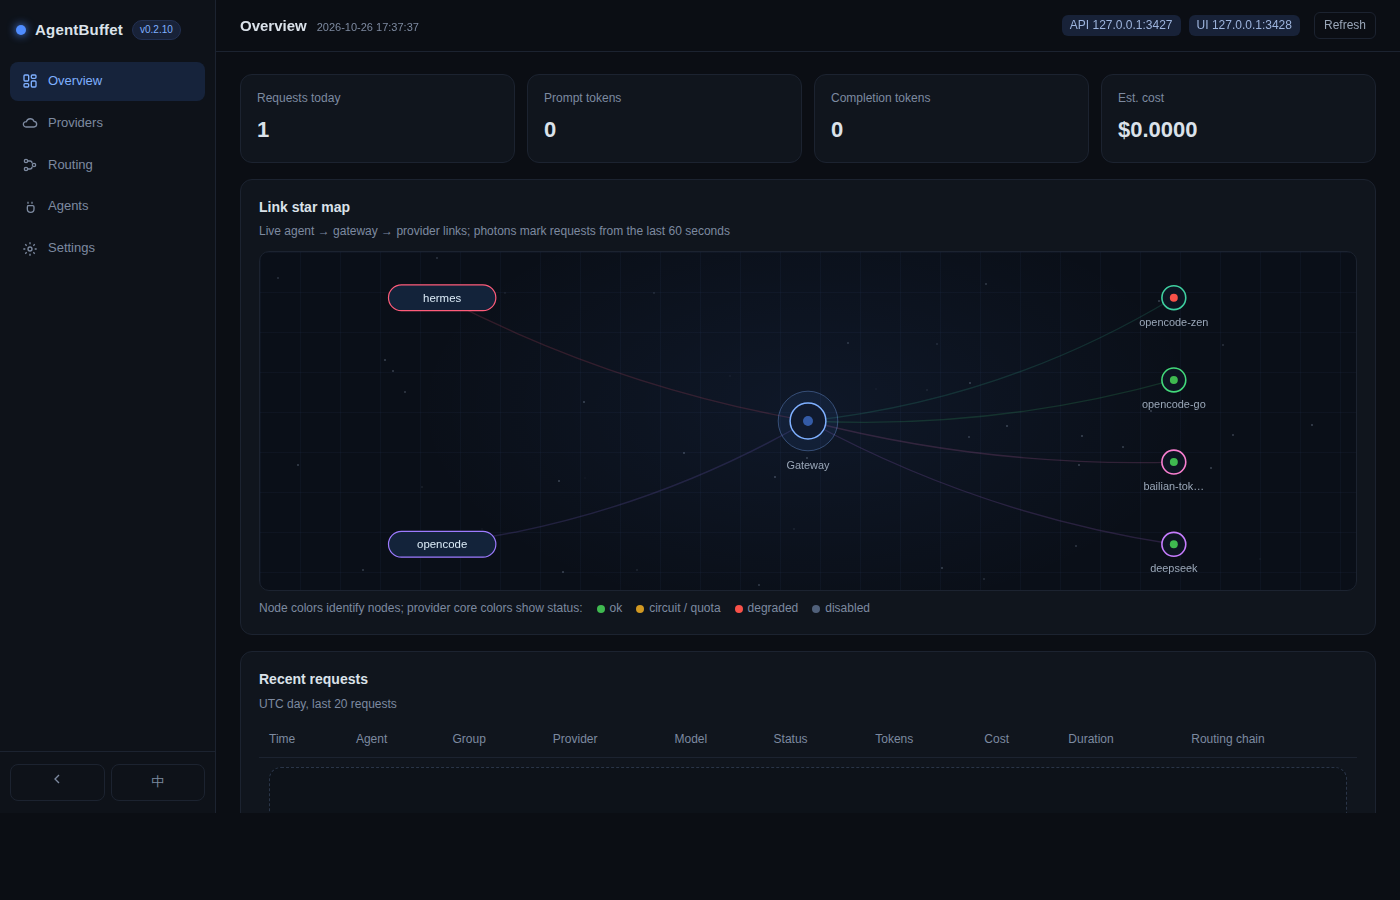
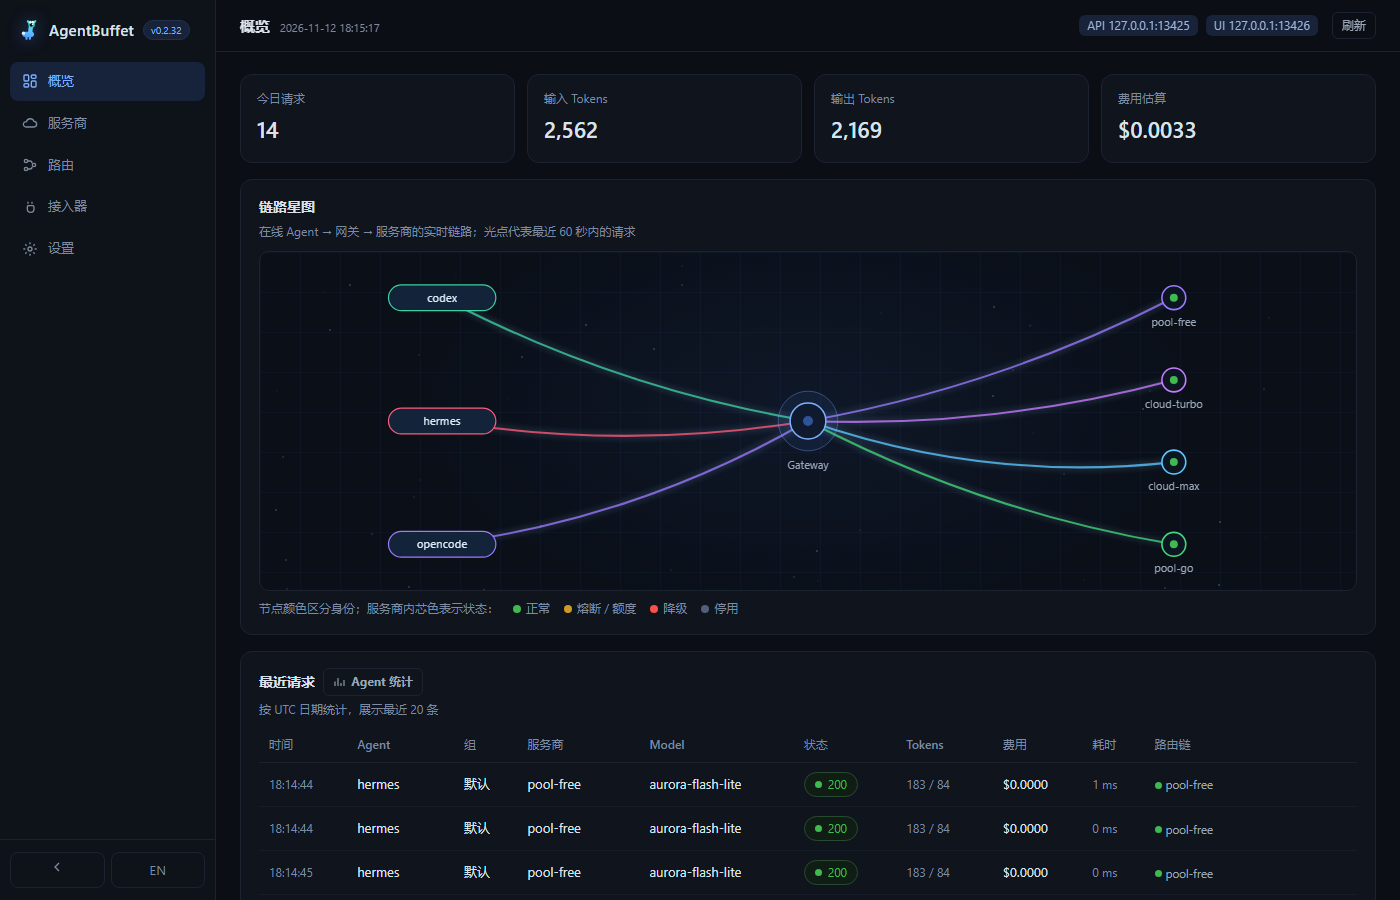
docs(素材): Buffet 三张截图换成 0.2.32 羊驼构建（隔离端口演示数据）
- 假服务商 pool-free/pool-go/cloud-turbo/cloud-max 指向本地 mock 端点，
  假模型 aurora-*/nimbus-*，路由组 默认/强力/免费，接入器 hermes/opencode/codex
- 监听 127.0.0.1:13425/13426，配置与用量都落在临时演示目录，
  不含真实机器名、真实服务商配置与真实对话
- 笔记里"发前检查真实配置"的提醒随之改成"演示数据"，素材位置改指仓库目录

diff --git a/docs/小红书推广素材/小红书笔记-AgentLink-AgentBuffet.md b/docs/小红书推广素材/小红书笔记-AgentLink-AgentBuffet.md
@@ -63,9 +63,9 @@
 不是商业产品，就是自己用爽了顺手开源的想法（这个还没开源，想要的话评论区说）。
 
 **图片顺序**：
-1. buffet-overview.png（封面：链路星图，注意发前肉眼检查一遍，图里是你真实的服务商配置）
+1. buffet-overview.png（封面：链路星图，界面真实、服务商与用量是演示数据）
 2. buffet-routing.png（路由组表格）
-3. buffet-settings.png（设置页，同上，发前检查）
+3. buffet-settings.png（设置页，同上）
 4. card-size.png（体积卡片，可复用）
 
 **标签**：#AIAgent #程序员 #效率工具 #API #ClaudeCode #独立开发 #数码好物
@@ -83,17 +83,17 @@
 | 密钥安全表述不夸大 | ✅ "只存自己电脑上、界面不显示、不进日志"，无"永不泄露"类说法 |
 | 不贬低竞品 | ✅ 只说"找了圈没合适的" |
 | 商业声明 | ✅ 第二篇明确"不是商业产品"；第一篇标开源 |
-| 真实感 | ✅ 截图全部真实界面，文字卡标注"示意" |
+| 真实感 | ✅ 截图全部是真实界面跑出来的（数据为演示配置），文字卡标注"示意" |
 
 **两个额外提醒**：
-1. 第一篇 GIF 是 1.8MB，小红书 GIF 上传限制内；若平台自动转"实况图"更好
-2. Buffet 三张截图含你真实的服务商/路由配置，发布前请肉眼过一遍是否有不想公开的内容（KEY 本体不会出现在界面上，这是产品特性）
+1. 第一篇 GIF 约 1.2MB，在小红书 GIF 上传限制内；若平台自动转"实况图"更好
+2. Buffet 三张截图与星图两张截图都在隔离端口上用演示配置重拍（假服务商 pool-*/cloud-*、假模型 aurora-*/nimbus-*、监听 13425/13426），不含真实机器名、真实服务商配置与真实对话；KEY 本体本来也不会出现在界面上
 
 ---
 
 ## 素材位置
 
-全部在 `/home/yxf/xhs-images/`：
+全部在本目录 `docs/小红书推广素材/`（随仓库走，不再是临时目录）：
 - starmap-live.gif — 星图动图（封面）
 - starmap-hd.png — 星图静帧
 - buffet-overview.png / buffet-routing.png / buffet-settings.png — Buffet 界面
